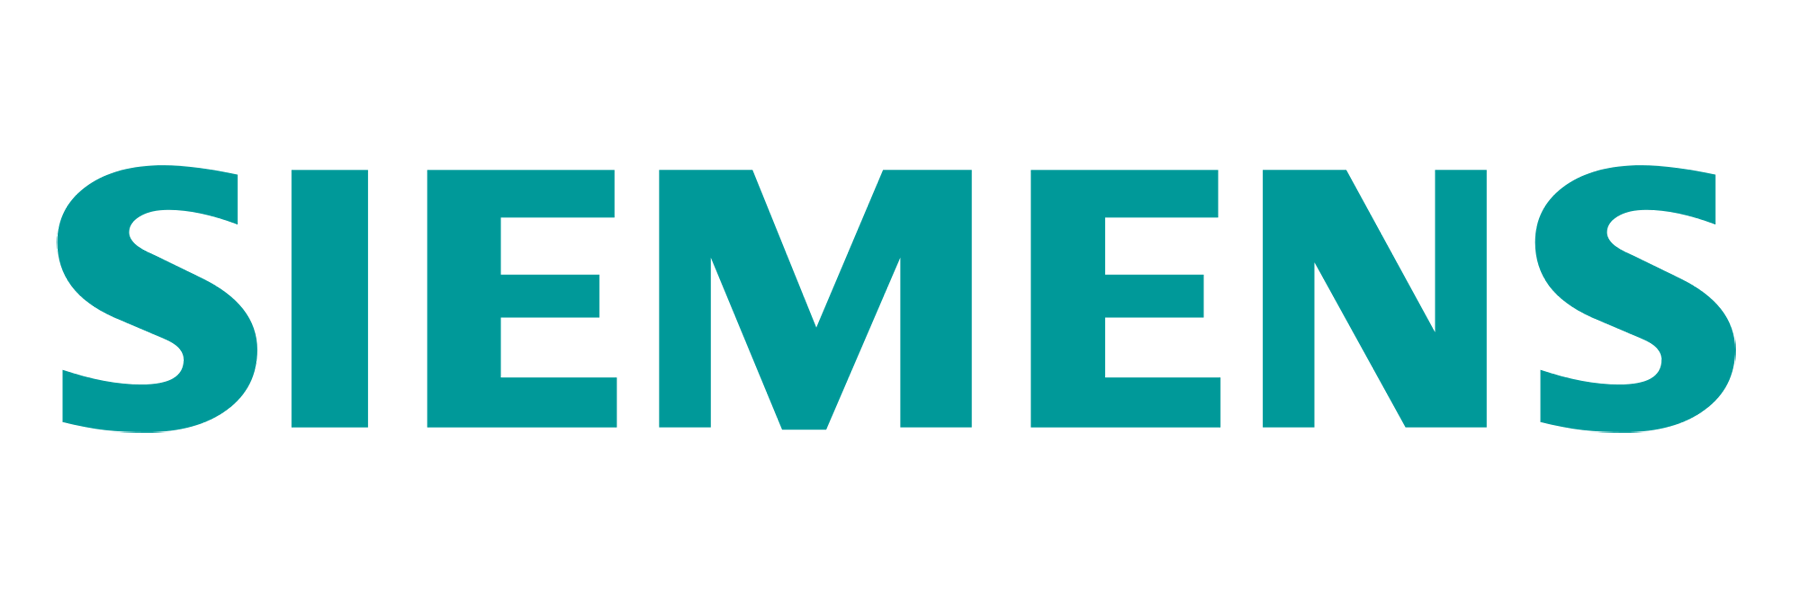
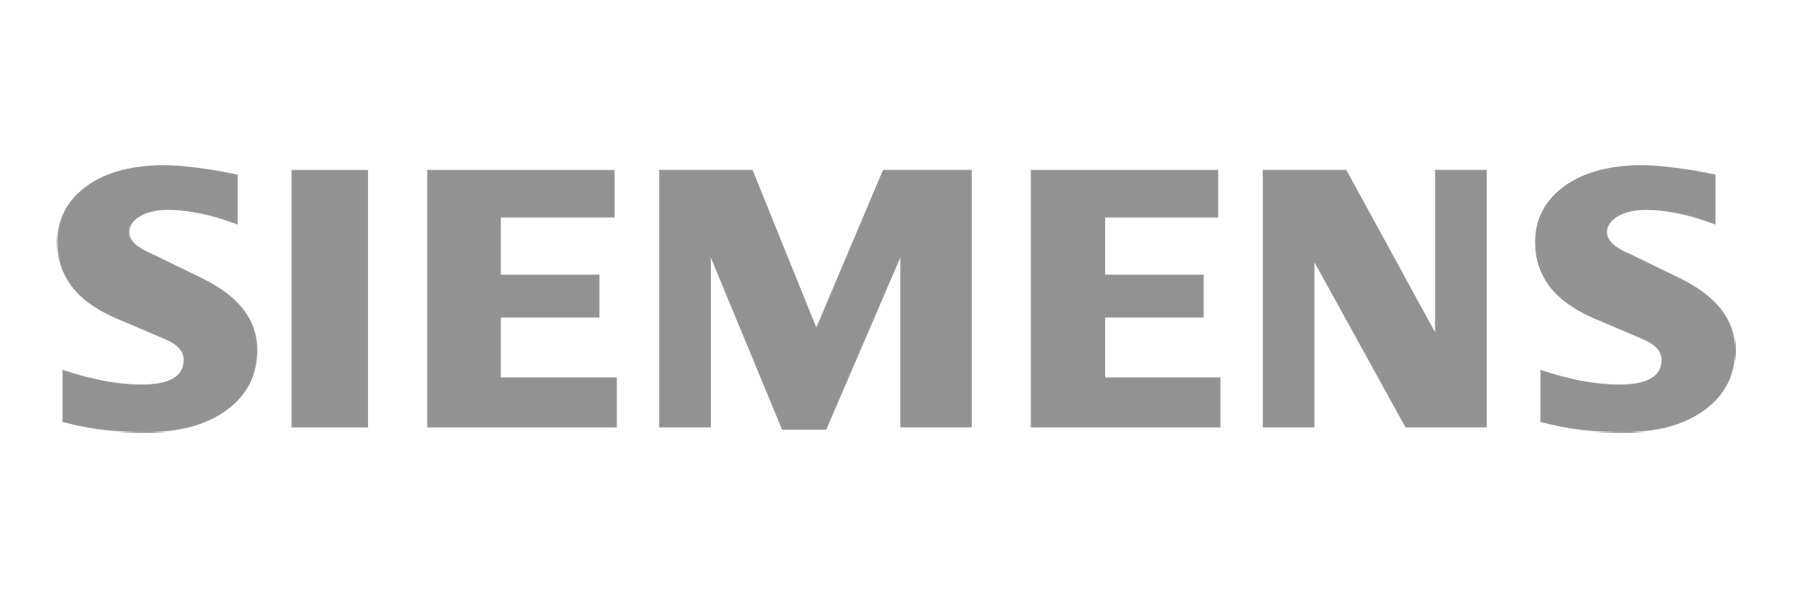
b

Changed region(s): [[0.0311, 0.27, 0.9644, 0.72]]

diff --git a/main-file/index.html b/main-file/index.html
@@ -207,13 +207,54 @@
     <div class="row">
         <div class="col-md-3 wow fadeInLeftBig"><img src="../main-file/architect-studio/img/siemens.png" alt=""></div>
 
-        <div class="col-md-3 wow fadeInLeftBig"><img src="../main-file/architect-studio/img/panamerican.jpg" alt=""></div>
+        <div class="col-md-3 wow fadeInLeftBig"><img src="../main-file/architect-studio/img/panamerican.png" alt=""></div>
         <div class="col-md-3 wow fadeInLeftBig"><img src="../main-file/architect-studio/img/partner3.png" alt=""></div>
         <div class="col-md-3 wow fadeInLeftBig"><img src="../main-file/architect-studio/img/woocar.png" alt=""></div>
 
     </div>
 </section>
 <!--SLider sec start-->
+
+<section class="overflow-hidden position-relative half-section">
+    <div class="container-fluid">
+        <div class="row position-relative">
+            <div class="col swiper swiper-width-auto text-center pb-30px sm-pb-20px" data-slider-options='{ "slidesPerView": "auto", "spaceBetween":60, "speed": 10000, "loop": true, "pagination": { "el": ".slider-four-slide-pagination-2", "clickable": false }, "allowTouchMove": false, "autoplay": { "delay":0, "disableOnInteraction": false }, "navigation": { "nextEl": ".slider-four-slide-next-2", "prevEl": ".slider-four-slide-prev-2" }, "keyboard": { "enabled": true, "onlyInViewport": true }, "breakpoints": { "768": { "spaceBetween": 70 } }, "effect": "slide" }'>
+                <div class="swiper-wrapper marquee-slide">
+                    <!-- start client item -->
+                    <div class="swiper-slide">
+                        <div class="fs-170 sm-fs-150 text-base-color fw-600 ls-minus-8px word-break-normal">desarrollo</div>
+                    </div>
+                    <!-- end client item -->
+                    <!-- start client item -->
+                    <div class="swiper-slide">
+                        <div class="fs-170 sm-fs-150 text-dark-gray fw-600 ls-minus-8px word-break-normal">soluciones</div>
+                    </div>
+                    <!-- end client item -->
+                    <!-- start client item -->
+                    <div class="swiper-slide">
+                        <div class="fs-170 sm-fs-150 text-base-color fw-600 ls-minus-8px word-break-normal">diseño</div>
+                    </div>
+                    <!-- end client item --> 
+                    <!-- start client item -->
+                    <div class="swiper-slide">
+                        <div class="fs-170 sm-fs-150 text-dark-gray fw-600 ls-minus-8px word-break-normal">eCommerce</div>
+                    </div>
+                    <!-- end client item --> 
+                    <!-- start client item -->
+                    <div class="swiper-slide">
+                        <div class="fs-170 sm-fs-150 text-base-color fw-600 ls-minus-8px word-break-normal">landings</div>
+                    </div>
+                    <!-- end client item --> 
+                    <!-- start client item -->
+                    <div class="swiper-slide">
+                        <div class="fs-170 sm-fs-150 text-dark-gray fw-600 ls-minus-8px word-break-normal">advanced</div>
+                    </div>
+                    <!-- end client item --> 
+                </div> 
+            </div>  
+        </div>
+    </div> 
+</section>
 
 <section class="slider-area">
     <div class="bg-overlay"></div>

diff --git a/main-file/architect-studio/css/style.css b/main-file/architect-studio/css/style.css
@@ -2860,10 +2860,6 @@ header .header-appear .main-navigation nav .navbar-nav .nav-item .nav-link {
         margin-bottom: 0px !important;
         padding-bottom: 50px !important;
     }
-    
-    .partners .row .col-md-3 img {
-        filter: brightness(30%) !important;
-    }
     .partners div div img {
         width: 40% !important;
     }
@@ -3206,7 +3202,6 @@ width: 200px;
 
 .partners .row .col-md-3 img {
     width: 90%;
-    filter: brightness(20%);
 }
 
 .partners .row .col-md-3 img:hover {
@@ -3214,12 +3209,12 @@ width: 200px;
     filter: brightness(100%)
 }
 
-.partners .row .col-md-3:nth-child(3) img:hover {
-    filter: brightness(5)
-}
 
 .swiper-slide, .swiper-wrapper {
     width: 100%;
     height: 100%;
     transition-property: transform;
+    transition-duration: 10000ms;
+    transform: translate3d(-2449.55px, 0px, 0px);
 }
+
